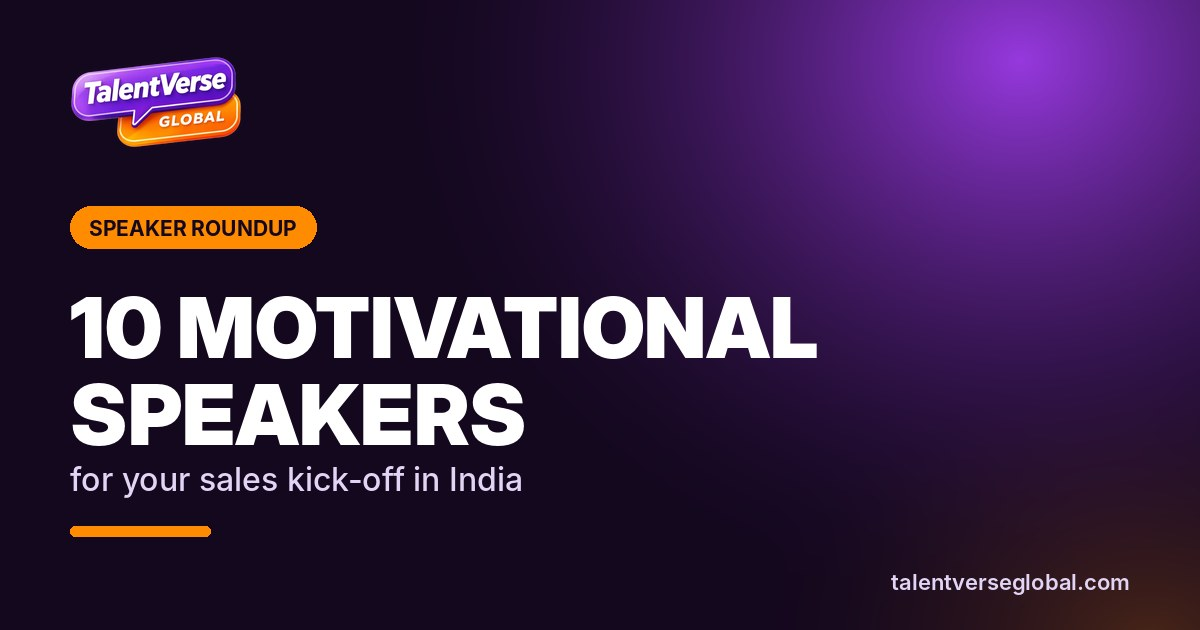
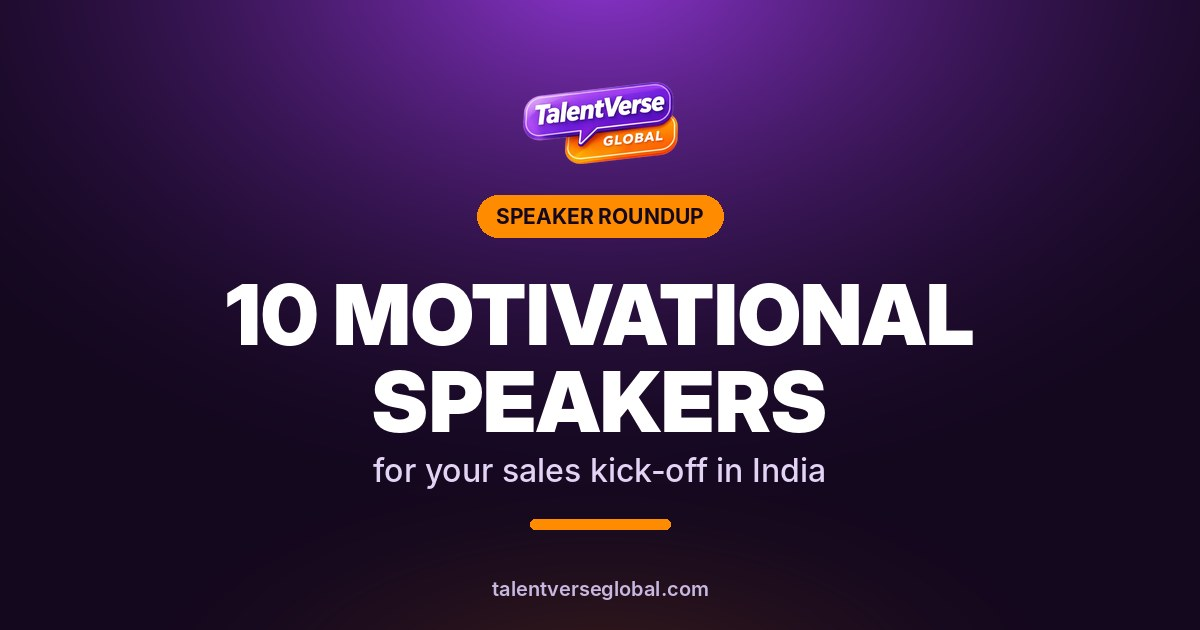
Blog covers: centre-aligned layout
Claude-Session: https://claude.ai/code/session_01JrPa6bckFVEaL4GzxcQMFh

diff --git a/tools/make_cover.py b/tools/make_cover.py
@@ -2,7 +2,7 @@
 
     python3 tools/make_cover.py content/blog/<slug>.md
 
-Full-width text design: dark background with a purple spotlight glow, the
+Centred text design: dark background with a purple spotlight glow, the
 logo, an orange label, a big title, a subtitle and the website address.
 Saves Images/blog/<slug>.jpg at 1200x630 (the size used for link previews).
 
@@ -42,8 +42,8 @@ def background():
     y, x = np.mgrid[0:H, 0:W].astype(float)
     base = np.array(INK, float)
     img = np.broadcast_to(base, (H, W, 3)).copy()
-    for cx, cy, rx, ry, col, k in [(1020, 60, 640, 560, (157, 59, 232), 0.95),
-                                   (1150, 640, 420, 300, (255, 140, 0), 0.22)]:
+    for cx, cy, rx, ry, col, k in [(600, -40, 820, 560, (157, 59, 232), 0.9),
+                                   (600, 700, 520, 260, (255, 140, 0), 0.18)]:
         r = np.sqrt(((x - cx) / rx) ** 2 + ((y - cy) / ry) ** 2)
         t = (np.clip(1 - r, 0, 1) ** 1.8 * k)[..., None]
         img = img + (np.array(col, float) - img) * t
@@ -57,43 +57,47 @@ def make(md_path):
 
     canvas = background()
     d = ImageDraw.Draw(canvas)
+    cx = W // 2
     hq = os.path.join(ROOT, 'Images', 'logo-hq.png')
     logo = Image.open(hq if os.path.exists(hq) else os.path.join(ROOT, 'Images', 'logo.webp')).convert('RGBA')
-    lh = 92
+    lh = 84
     logo = logo.resize((int(logo.width * lh / logo.height), lh), Image.LANCZOS)
-    canvas.paste(logo, (70, 56), logo)
 
     tag = meta.get('cover_tag', 'TalentVerse Global blog').upper()
     ft = font('Inter-Bold.otf', 21)
     tw = d.textlength(tag, font=ft)
-    y = 206
-    d.rounded_rectangle((70, y, 70 + tw + 38, y + 42), 21, fill=ORANGE)
-    d.text((89, y + 9), tag, font=ft, fill=INK)
 
     title = meta.get('cover_title', meta.get('title', '')).upper()
     size = 84
     while True:
         fh = font('InterDisplay-Black.otf', size)
-        lines = wrap(d, title, fh, 900)
+        lines = wrap(d, title, fh, 1000)
         if len(lines) <= 2 or size <= 48:
             break
         size -= 4
-    y += 70
-    for line in lines:
-        d.text((70, y), line, font=fh, fill=(255, 255, 255))
-        y += int(size * 1.04)
-
+    line_h = int(size * 1.04)
     sub = meta.get('cover_subtitle', '')
-    if sub:
-        fs = font('Inter-Medium.otf', 32)
-        y += 10
-        d.text((70, y), sub, font=fs, fill=(226, 212, 245))
-        y += 44
-    d.rounded_rectangle((70, y + 22, 70 + 140, y + 32), 5, fill=ORANGE)
+    fs = font('Inter-Medium.otf', 32)
 
-    fw = font('Inter-SemiBold.otf', 22)
-    site = 'talentverseglobal.com'
-    d.text((W - 70 - d.textlength(site, font=fw), H - 62), site, font=fw, fill=(226, 212, 245))
+    # total height of the stack, so it sits in the middle of the image
+    stack = lh + 30 + 42 + 26 + len(lines) * line_h + (14 + 40 if sub else 0) + 28 + 10
+    y = (H - stack) // 2 - 10
+    canvas.paste(logo, (cx - logo.width // 2, y), logo)
+    y += lh + 30
+    d.rounded_rectangle((cx - tw / 2 - 19, y, cx + tw / 2 + 19, y + 42), 21, fill=ORANGE)
+    d.text((cx, y + 21), tag, font=ft, fill=INK, anchor='mm')
+    y += 42 + 26
+    for line in lines:
+        d.text((cx, y), line, font=fh, fill=(255, 255, 255), anchor='ma')
+        y += line_h
+    if sub:
+        y += 14
+        d.text((cx, y), sub, font=fs, fill=(226, 212, 245), anchor='ma')
+        y += 40
+    d.rounded_rectangle((cx - 70, y + 28, cx + 70, y + 38), 5, fill=ORANGE)
+
+    fw = font('Inter-SemiBold.otf', 20)
+    d.text((cx, H - 34), 'talentverseglobal.com', font=fw, fill=(200, 184, 225), anchor='ms')
 
     out = os.path.join(ROOT, 'Images', 'blog', slug + '.jpg')
     canvas.save(out, quality=88, optimize=True, progressive=True)
